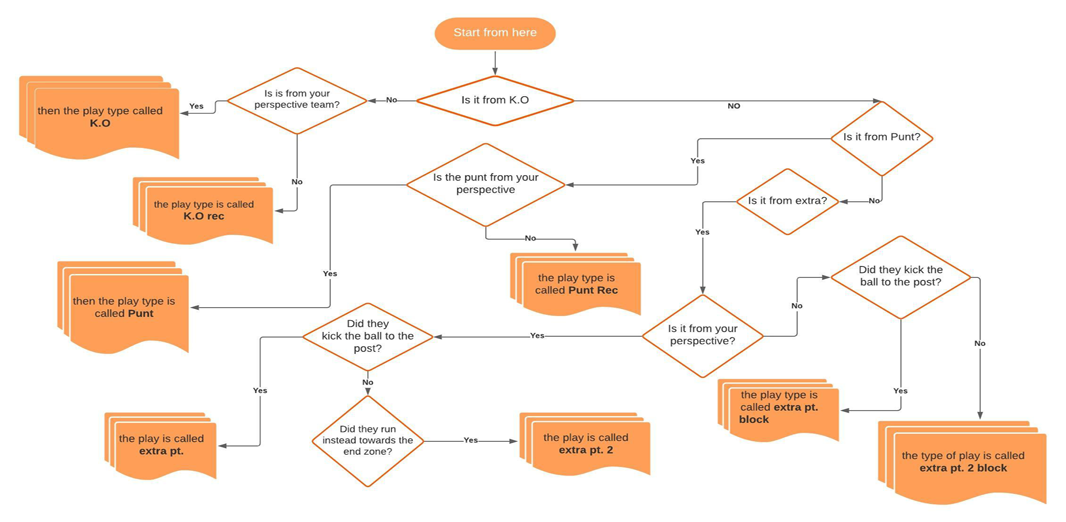
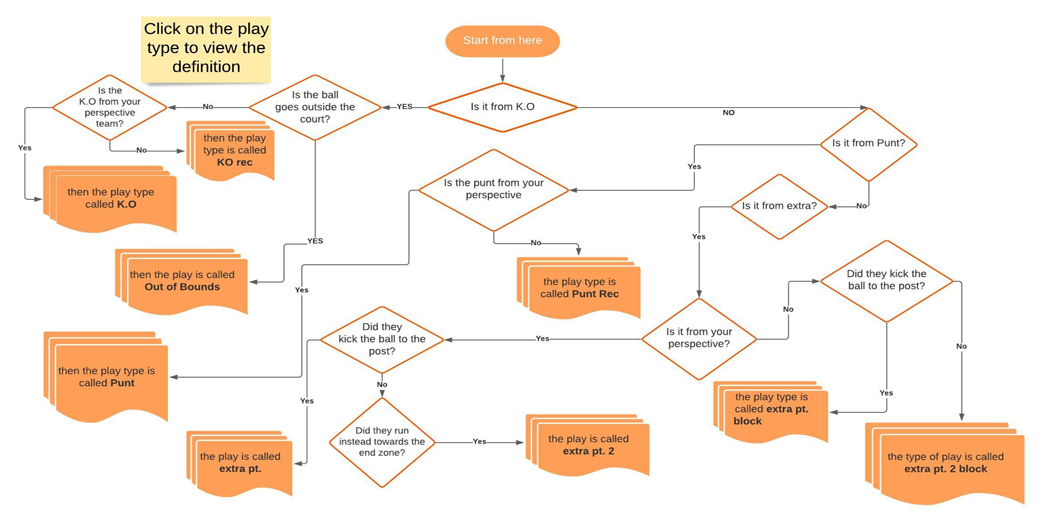
index update

diff --git a/index.html b/index.html
@@ -254,10 +254,12 @@
                         <tr>
                             <td>
                                 <map name="afb2">
-                                    <area shape="rect" coords="17,75,177,160" id="cursorme" data-toggle="modal" data-target="#modalko" alt="">
-                                    <area shape="rect" coords="130,178,266,245" id="cursorme" data-toggle="modal" data-target="#modalkorec" alt="">
+                                    <area shape="rect" coords="40,165,177,232" id="cursorme" data-toggle="modal" data-target="#modalko" alt="">
+                                    <area shape="rect" coords="185,120,274,183" id="cursorme" data-toggle="modal" data-target="#modalkorec" alt="">
+                                    <area shape="rect" coords="115,250,248,315" id="cursorme" data-toggle="modal" data-target="#modaloutofbounds" alt="">
+                                    <area shape="rect" coords="42,330,170,422" id="cursorme" data-toggle="modal" data-target="#modalpunt" alt="">
 
-                                    <img src="img/fb4.png" usemap="#afb2" alt="">
+                                    <img src="img/fb3.png" usemap="#afb2" alt="">
                                 </map>
                             </td>
                         </tr>
@@ -1337,6 +1339,43 @@
                         <p style="text-align: justify;">
                             <span class="font-weight-bold">KO Rec</span> will be tagged when Team 1 is receiving the kicked ball. 
                             The team receiving the kickoff will then be on Offense for the next play.
+                        </p>
+                        <p><span class="font-weight-bold">Possible Corresponding Play Types:</span><br>
+                            
+                        </p>
+                        <p><strong>PRO TIP:</strong>
+                            <br>
+                            not available this time.
+                        </p>
+                    </div>
+                </div>
+                <div class="modal-footer">
+                    <button type="button" class="btn btn-secondary" data-dismiss="modal">
+                        Close
+                    </button>
+                    <button type="button" class="btn btn-primary">Save changes</button>
+                </div>
+            </div>
+        </div>
+    </div>
+    <!-- End of Modal -->
+    <!-- Modal punt -->
+    <div id="modalpunt" class="modal fade" tabindex="-1" role="dialog" aria-labelledby="myNormalModalLabel" aria-hidden="true">
+        <div class="modal-dialog">
+            <div class="modal-content">
+                <div class="modal-header">
+                    <h5 class="modal-title">
+                        Punt
+                    </h5>
+                    <button type="button" class="close" data-dismiss="modal" aria-label="Close">
+                        <span aria-hidden="true">×</span>
+                    </button>
+                </div>
+                <div class="modal-body">
+                    <div class="container">
+                        <p style="text-align: justify;">
+                            A <span class="font-weight-bold">Punt</span> is a kick performed by dropping the ball from the hands and kicking it before it touches the ground. 
+                            The goal is to move the ball as far as possible toward the opponent's end zone.
                         </p>
                         <p><span class="font-weight-bold">Possible Corresponding Play Types:</span><br>
                             
